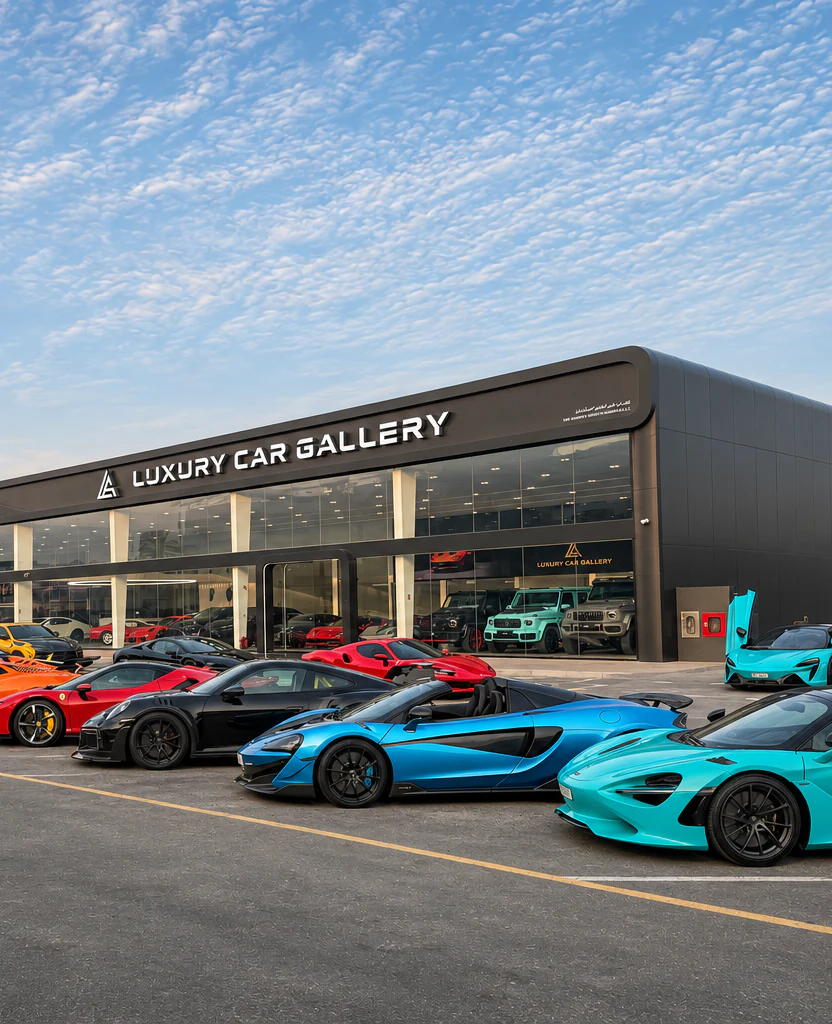
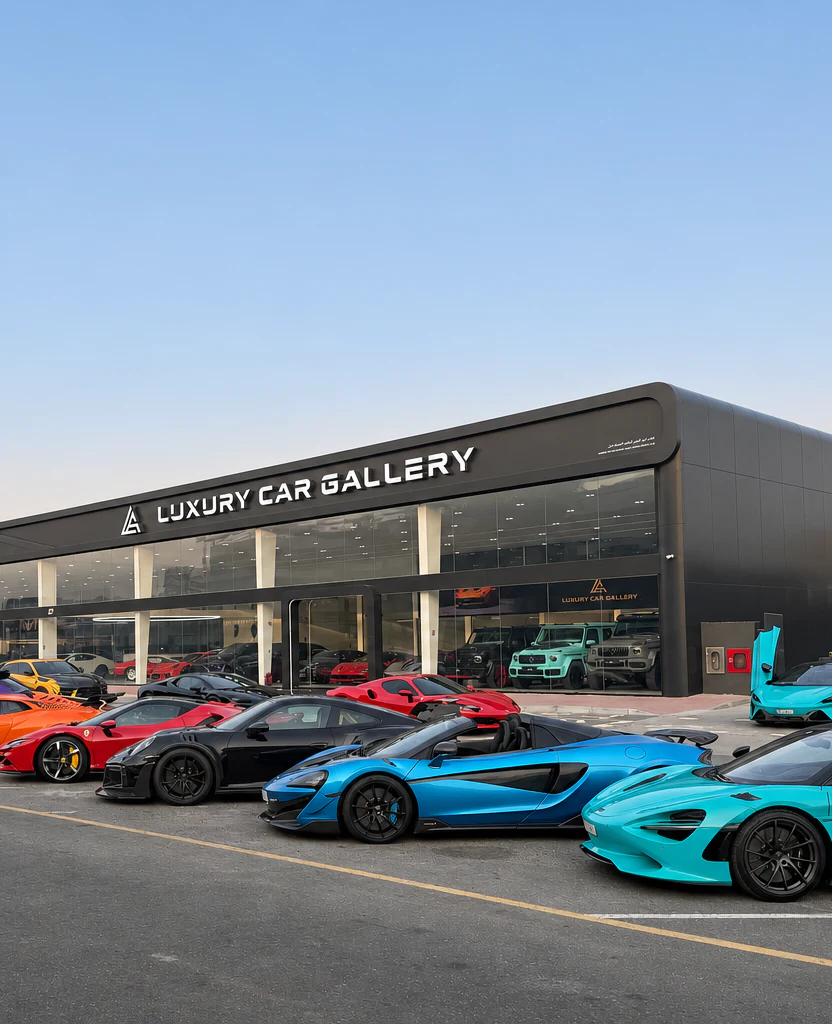
Place the About heading over the clear showroom sky

diff --git a/app/about/page.tsx b/app/about/page.tsx
@@ -10,6 +10,8 @@ import { contact } from '@/lib/content';
 import { defaultSocialImage } from '@/lib/social-images';
 import { DivisionsTimeline } from './divisions-timeline';
 import { PageHeading } from '@/components/page-heading';
+import showroomPhoto from '@/public/images/headquarters-forecourt.webp';
+import showroomPortrait from '@/public/images/headquarters-forecourt-portrait.webp';
 const title = 'About Luxury Performance | Our Story';
 const description = 'Meet Luxury Performance in Al Quoz, Dubai. Explore the people and approach behind our exhausts, body kits, carbon fibre parts, wheels and suspension upgrades.';
 export const metadata: Metadata = {
@@ -19,17 +21,20 @@ export const metadata: Metadata = {
 };
 export default function About() {
   const { props: portrait } = getImageProps({
-    src: '/images/headquarters-forecourt-portrait.webp', width: 832, height: 1024,
+    src: showroomPortrait,
     sizes: 'max(100vw, 65svh)', alt: '',
   });
-  return <><div className="about-story"><PageHeading title="About." description="Auto parts and upgrades, supplied from Dubai. Built around your car, with guidance on fitment, availability and installation options." />
+  return <><div className="about-story">
   <div className="interior-hero">
     <picture>
       <source media="(max-width: 900px) and (max-aspect-ratio: 4/5)" srcSet={portrait.srcSet} sizes={portrait.sizes} />
-      <Image src="/images/headquarters-forecourt.webp" alt="Supercars lined up outside The Luxury Group showroom in Al Quoz, Dubai"
+      <Image src={showroomPhoto} alt="Supercars lined up outside The Luxury Group showroom in Al Quoz, Dubai"
         fill loading="eager" fetchPriority="high" sizes="(max-width: 900px) max(100vw, 120svh), 100vw" />
     </picture>
-    <span className="image-bottom-label">One home. A world of automotive possibility.</span>
+    <div className="about-hero-copy">
+      <span className="about-hero-caption">One home. A world of automotive possibility.</span>
+      <PageHeading title="About." description="Auto parts and upgrades, supplied from Dubai. Built around your car, with guidance on fitment, availability and installation options." />
+    </div>
   </div>
   <section className="about-manifesto section-pad"><Image src="/brand/lxp-winged-black.svg" width={1868} height={728} sizes="185px" alt="Luxury Performance wing emblem" className="about-emblem" /><Reveal><h2>Built around cars.<br /><span className="text-muted">Driven by people.</span></h2><p><Link className="about-home-link" href="/">Luxury Performance</Link> is the automotive performance division of The Luxury Group Dubai. From our base in Al Quoz, we help owners, collectors and specialist workshops choose parts and upgrades for their vehicles.</p><p>Our <Link className="about-home-link" href="/shop">shop</Link> brings together exhaust systems, body kits, carbon fibre parts, wheels and suspension. Explore <Link className="about-home-link" href="/partners">our partner brands</Link>, including NOVITEC, TECHART, Valvetronic Designs, CAPRISTO, FI Exhaust and Gintani. Available components and configurations depend on your exact vehicle.</p><p>Whether you’re choosing one component or planning a wider build, we help check compatibility, supplied components and finishes, explain stock status and lead times, and discuss installation options. The starting point is your car and what you want to change.</p><ArrowLink href="/contact">Talk to our team</ArrowLink></Reveal></section>
   <DivisionsTimeline /></div>

diff --git a/app/about/interior.css b/app/about/interior.css
@@ -1,14 +1,35 @@
 .interior-hero {
   position: relative;
-  height: clamp(640px, 86svh, 1080px);
+  min-height: clamp(640px, 86svh, 1080px);
   overflow: hidden;
+  background: #b7d4ed;
 }
 .interior-hero img {
   object-fit: cover;
-  object-position: center 67%;
+  object-position: center 54%;
   transition: transform 1.4s var(--ease-out);
 }
-.image-bottom-label{position:absolute;bottom:30px;left:var(--gutter);font-size:9px;letter-spacing:.15em;color:#fff;text-transform:uppercase;text-shadow:0 1px 5px #000}
+.about-hero-copy {
+  position: relative;
+  padding: clamp(28px, 4vw, 64px) var(--gutter);
+  color: var(--ink);
+}
+.about-hero-caption {
+  display: block;
+  margin-bottom: 10px;
+  font-size: 10px;
+  font-weight: 600;
+  letter-spacing: .12em;
+  text-transform: uppercase;
+}
+.about-hero-copy > header {
+  padding: 0;
+  background: transparent;
+}
+.about-hero-copy header p {
+  color: var(--ink);
+  font-weight: 500;
+}
 @media (max-width: 900px) {
-  .interior-hero { height: clamp(460px, 80svh, 900px); }
+  .interior-hero { min-height: clamp(460px, 80svh, 900px); }
 }
